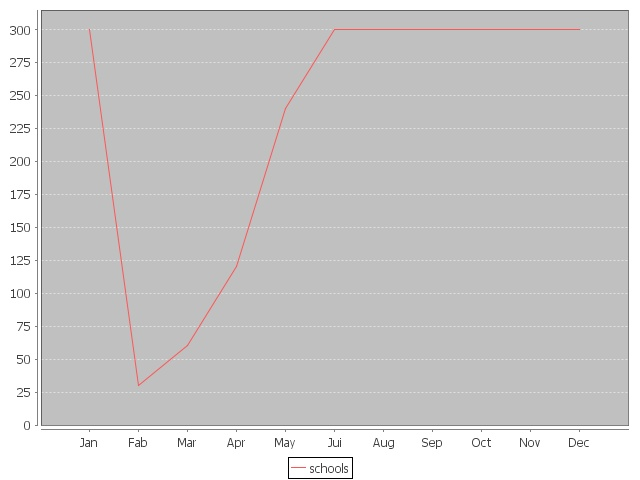
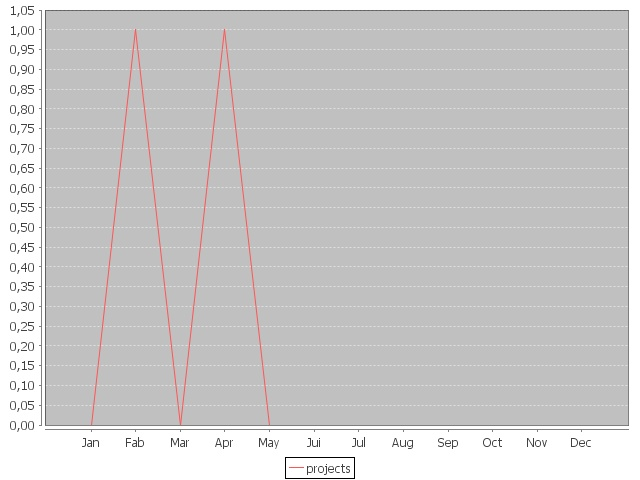
hich

diff --git a/src/main/java/project/client/Presentation/GuiCompteModirator.java b/src/main/java/project/client/Presentation/GuiCompteModirator.java
@@ -43,8 +43,10 @@ import org.jfree.data.general.DefaultPieDataset;
 import java.awt.event.ActionListener;
 import java.io.File;
 import java.io.IOException;
+import java.text.ParseException;
 import java.text.SimpleDateFormat;
 import java.util.ArrayList;
+import java.util.Calendar;
 import java.util.Date;
 import java.awt.event.ActionEvent;
 
@@ -53,6 +55,9 @@ import projects.serveur.entites.Project;
 import javax.swing.JTabbedPane;
 import javax.swing.JTextPane;
 import javax.swing.JEditorPane;
+import javax.swing.JScrollPane;
+
+
 
 public class GuiCompteModirator extends JFrame {
 	
@@ -71,6 +76,7 @@ public class GuiCompteModirator extends JFrame {
 	JEditorPane editorcause;
 	int choix ;
 	Integer index;
+		
 	public static void main(String[] args) {
 		try {
 		    for (LookAndFeelInfo info : UIManager.getInstalledLookAndFeels()) {
@@ -97,13 +103,9 @@ public class GuiCompteModirator extends JFrame {
 	/**
 	 * Create the frame.
 	 * @throws IOException 
+	 * @throws ParseException 
 	 */
-	public GuiCompteModirator() throws IOException {
-		SimpleDateFormat formater = new SimpleDateFormat("yyyy-MM-dd");
-		Date date_p=new Date();
-		formater.format(date_p);
-		System.out.println(formater.format(date_p));
-		System.out.println(ProjectDelegate.getNumberProjects(date_p));
+	public GuiCompteModirator() throws IOException, ParseException {
 		setDefaultCloseOperation(JFrame.EXIT_ON_CLOSE);
 		setBounds(100, 100, 859, 742);
 		contentPane = new JPanel();
@@ -177,7 +179,7 @@ public class GuiCompteModirator extends JFrame {
 		JLabel lblListOfProjects = new JLabel("List of projects");
 		lblListOfProjects.setFont(new Font("Trebuchet MS", Font.PLAIN, 11));
 		lblListOfProjects.setForeground(new Color(0, 0, 128));
-		lblListOfProjects.setBounds(389, 44, 129, 14);
+		lblListOfProjects.setBounds(314, 44, 129, 14);
 		contentPane.add(lblListOfProjects);
 		
 		
@@ -189,16 +191,19 @@ public class GuiCompteModirator extends JFrame {
 			}
 		});
 		btnDetail.setIcon(new ImageIcon("C:\\Users\\Hichem\\workspace\\project.client\\src\\main\\resources\\Pictures\\detail.png"));
-		btnDetail.setBounds(327, 202, 89, 23);
+		btnDetail.setBounds(314, 225, 89, 23);
 		contentPane.add(btnDetail);
+		projects=ProjectDelegate.getList();
+		
+		JScrollPane scrollPane = new JScrollPane();
+		scrollPane.setBounds(314, 65, 493, 149);
+		contentPane.add(scrollPane);
 		
 		table = new JTable();
-		table.setBounds(314, 65, 250, 109);
-		projects=ProjectDelegate.getList();
+		scrollPane.setViewportView(table);
+		table.setBorder(new LineBorder(new Color(0, 0, 0)));
 		table.setModel(new Projcts_Model(projects));
 		table.setBackground(Color.WHITE);
-
-		contentPane.add(table);
 		
 		tabbedPane = new JTabbedPane(JTabbedPane.TOP);
 		tabbedPane.setBounds(0, 236, 843, 515);
@@ -330,7 +335,7 @@ public class GuiCompteModirator extends JFrame {
 			public void actionPerformed(ActionEvent e) {
 			}
 		});
-		btnConfirmed.setBounds(423, 222, 118, 23);
+		btnConfirmed.setBounds(349, 367, 118, 23);
 		panel.add(btnConfirmed);
 		
 		btnDenied = new JButton("Denied");
@@ -346,7 +351,7 @@ public class GuiCompteModirator extends JFrame {
 			}
 		});
 		btnDenied.setIcon(new ImageIcon("C:\\Users\\Hichem\\workspace\\project.client\\src\\main\\resources\\Pictures\\refuser.png"));
-		btnDenied.setBounds(571, 222, 120, 23);
+		btnDenied.setBounds(570, 367, 120, 23);
 		panel.add(btnDenied);
 		
 		lblCauseOfDenied = new JLabel("Cause of denied :");
@@ -357,7 +362,7 @@ public class GuiCompteModirator extends JFrame {
 		
 		editorcause = new JEditorPane();
 		editorcause.setFont(new Font("Trebuchet MS", Font.PLAIN, 11));
-		editorcause.setBounds(504, 135, 209, 76);
+		editorcause.setBounds(376, 160, 439, 179);
 		
 		panel.add(editorcause);
 		JPanel panel_1 = new JPanel();
@@ -371,20 +376,34 @@ public class GuiCompteModirator extends JFrame {
 		pieDataset.setValue("Valeur4", new Integer(5));
 		JFreeChart pieChart = ChartFactory.createPieChart(null,		
 		pieDataset, true, true, true);*/
+		SimpleDateFormat formater = new SimpleDateFormat("yyyy-MM-dd");
+		Calendar calender=Calendar.getInstance();
+		calender.set(calender.DATE,1 );
+		calender.set(calender.MONTH, 1);
+		calender.set(calender.YEAR, 2016);
+		Date date1 =calender.getTime();
+		
+		calender.set(calender.DATE, 28);
+		calender.set(calender.MONTH, 1);
+		calender.set(calender.YEAR, 2016);
+		Date date2 =calender.getTime();
+		System.out.println(formater.format(date1));
+		System.out.println(ProjectDelegate.getNumberProjects(formater.format(date1),
+		formater.format(date2)));
 		 DefaultCategoryDataset line_chart_dataset = new DefaultCategoryDataset();
-	     line_chart_dataset.addValue( 15 , "schools" , "Jan" );
-		 line_chart_dataset.addValue( 30 , "schools" , "Fab" );
-		 line_chart_dataset.addValue( 60 , "schools" , "Mar" );
-		 line_chart_dataset.addValue( 120 , "schools" , "Apr" );
-		 line_chart_dataset.addValue( 240 , "schools" , "May" ); 
-		 line_chart_dataset.addValue( 300 , "schools" , "Jan" );
-		 line_chart_dataset.addValue( 300 , "schools" , "Jui" );
-		 line_chart_dataset.addValue( 300 , "schools" , "Aug" );
-		 line_chart_dataset.addValue( 300 , "schools" , "Sep" );
-		 line_chart_dataset.addValue( 300 , "schools" , "Oct" );
-		 line_chart_dataset.addValue( 300 , "schools" , "Nov" );
-		 line_chart_dataset.addValue( 300 , "schools" , "Dec" );
-		 JFreeChart lineChartObject = ChartFactory.createLineChart(
+	     line_chart_dataset.addValue( ProjectDelegate.getNumberProjects("2016-01-01", "2016-01-31") , "projects" , "Jan" );
+	     line_chart_dataset.addValue( ProjectDelegate.getNumberProjects("2016-02-01", "2016-02-28") , "projects" , "Fab" );
+	     line_chart_dataset.addValue( ProjectDelegate.getNumberProjects("2016-03-01", "2016-03-31") , "projects" , "Mar" );
+	     line_chart_dataset.addValue( ProjectDelegate.getNumberProjects("2016-04-01", "2016-04-30") , "projects" , "Apr" );
+	     line_chart_dataset.addValue( ProjectDelegate.getNumberProjects("2016-05-01", "2016-05-31") , "projects" , "May" );
+	     line_chart_dataset.addValue( ProjectDelegate.getNumberProjects("2016-06-01", "2016-06-31") , "projects" , "Jui" );
+	     line_chart_dataset.addValue( ProjectDelegate.getNumberProjects("2016-07-01", "2016-07-30") , "projects" , "Jul" );
+	     line_chart_dataset.addValue( ProjectDelegate.getNumberProjects("2016-08-01", "2016-08-31") , "projects" , "Aug" );
+	     line_chart_dataset.addValue( ProjectDelegate.getNumberProjects("2016-09-01", "2016-09-30") , "projects" , "Sep" );
+	     line_chart_dataset.addValue( ProjectDelegate.getNumberProjects("2016-10-01", "2016-10-31") , "projects" , "Oct" );
+	     line_chart_dataset.addValue( ProjectDelegate.getNumberProjects("2016-11-01", "2016-11-30") , "projects" , "Nov" );
+	     line_chart_dataset.addValue( ProjectDelegate.getNumberProjects("2016-12-01", "2016-12-31") , "projects" , "Dec" );
+	     JFreeChart lineChartObject = ChartFactory.createLineChart(
 		 "","",
 		 "",
 		 line_chart_dataset,PlotOrientation.VERTICAL,
@@ -403,7 +422,8 @@ public class GuiCompteModirator extends JFrame {
 	}
 
 	protected void btnDeniedactionperformed(ActionEvent e) throws AddressException, MessagingException {
-		   
+		 
+		
 		int answer = JOptionPane.showConfirmDialog(this,
 		"Are you sure to delete this project");
 	    if (answer == JOptionPane.YES_OPTION) {
@@ -448,8 +468,8 @@ public class GuiCompteModirator extends JFrame {
 		lblnamep.setText(p.getName());
 		lbltitle.setText(p.getTitle());
 		lblshortp.setText(p.getShort_presentation());
-		lblduration.setText(String.valueOf(p.getDuration())+" jours");
-		lbltarget.setText(String.valueOf(p.getTurget_funding()+" Tdt"));
+		lblduration.setText(String.valueOf(p.getDuration())+" days");
+		lbltarget.setText(String.valueOf(p.getTurget_funding()+" DNT"));
 		lbllocation.setText(p.getLocation());
 		lblcat.setText(p.getCategory().getName_category());
 		lblnamec.setText(p.getCreator().getFirstname()+" "+p.getCreator().getLastname());

diff --git a/src/main/java/project/client/models/Projcts_Model.java b/src/main/java/project/client/models/Projcts_Model.java
@@ -11,7 +11,7 @@ import projects.serveur.entites.Project;
 public class Projcts_Model extends AbstractTableModel {
     
     
-    String [] colunmTab= {"Name","Title","Objectif"};
+    String [] colunmTab= {"Name","Title","Funding target","Date publish","Creator name"};
 	ArrayList<Project>projects=new ArrayList<>() ;
     public Projcts_Model(ArrayList<Project>projects) {  	
 		 this.projects=projects;		  						
@@ -34,12 +34,15 @@ public class Projcts_Model extends AbstractTableModel {
         case 0:
         return  projects.get(rowIndex).getName();
         case 1 :
-                return projects.get(rowIndex).getTitle();
-            case 2: 
-                return projects.get(rowIndex).getTurget_funding() ;
-                    
-            default:
-                return null;
+        return projects.get(rowIndex).getTitle();
+        case 2: 
+        return projects.get(rowIndex).getTurget_funding() ;
+        case 3: 
+        return projects.get(rowIndex).getDate_publish() ;
+        case 4: 
+        return projects.get(rowIndex).getCreator().getFirstname()+" "+ projects.get(rowIndex).getCreator().getLastname();                 
+         default:
+           return null;
     }
     
 }

diff --git a/src/main/java/project/client/locators/ProjectDelegate.java b/src/main/java/project/client/locators/ProjectDelegate.java
@@ -34,9 +34,9 @@ public class ProjectDelegate {
 	    return  getProxyProjectServices().findProjectsByCategory(category);
 		}
 	
-	public static Long getNumberProjects(Date date)
+	public static int getNumberProjects(String date1,String date2)
 	{
-		return  getProxyProjectServices().getNumberProjectsByDate(date);
+		return  getProxyProjectServices().getNumberProjectsByDate(date1,date2);
 	}
 	
 	public static void remove(Project p)
